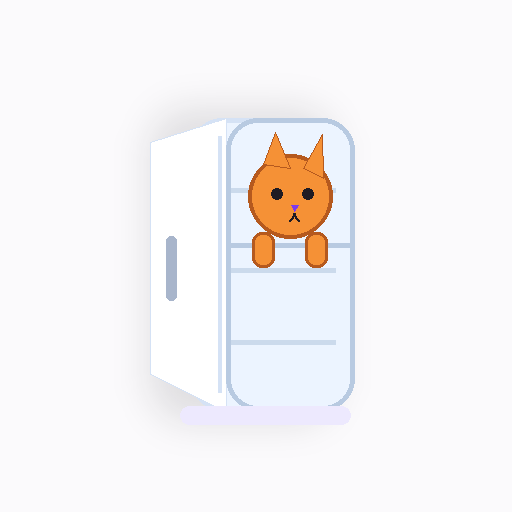
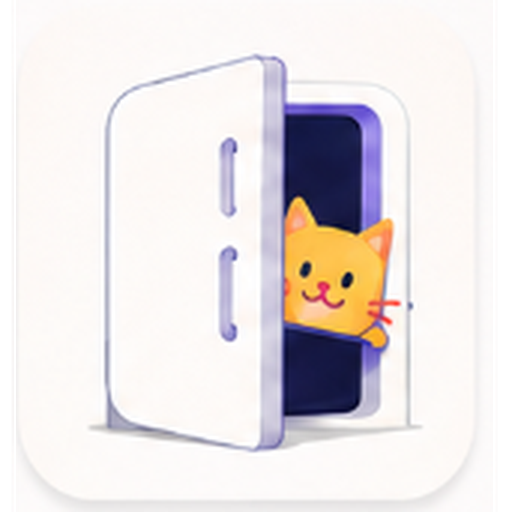
Add files via upload

diff --git a/index.html b/index.html
@@ -10,18 +10,19 @@
   <style>
     :root{--bg:#fbfafc;--card:#fff;--ink:#17131f;--muted:#70667a;--line:#ebe5ef;--purple:#7c3aed;--purple2:#a855f7;--dark:#17131f;--good:#059669;--bad:#dc2626;--warn:#b45309;--shadow:0 14px 38px rgba(31,24,40,.08)}
     *{box-sizing:border-box} body{margin:0;background:var(--bg);color:var(--ink);font-family:Inter,ui-sans-serif,system-ui,-apple-system,Segoe UI,Roboto,Arial,sans-serif} button,input,select,textarea{font:inherit} button{border:0;cursor:pointer;color:inherit} .hidden{display:none!important}
-    .wrap{width:min(520px,100%);margin:0 auto;min-height:100vh;padding:74px 14px 96px}.setup{min-height:100vh;display:grid;place-items:center;padding:22px}.card,.tile,.item,.panel{background:var(--card);border:1px solid var(--line);border-radius:24px;box-shadow:var(--shadow)}
+    .wrap{width:min(520px,100%);margin:0 auto;min-height:100vh;padding:74px 14px 96px}.setup{min-height:100vh;display:grid;place-items:center;padding:22px}.splash{position:fixed;inset:0;z-index:120;background:#fff;display:grid;place-items:center;text-align:center;padding:28px}.splash-inner img{width:180px;height:180px;border-radius:28px;box-shadow:var(--shadow)}.loader{width:74px;height:8px;background:#eee9f7;border-radius:999px;margin:54px auto 0;overflow:hidden}.loader i{display:block;width:38%;height:100%;border-radius:999px;background:linear-gradient(90deg,var(--purple),var(--purple2));animation:loadbar 1.15s ease-in-out infinite alternate}@keyframes loadbar{from{transform:translateX(0)}to{transform:translateX(120%)}}.card,.tile,.item,.panel{background:var(--card);border:1px solid var(--line);border-radius:24px;box-shadow:var(--shadow)}
     .top-nav{position:fixed;top:0;left:0;right:0;z-index:45;background:rgba(251,250,252,.86);backdrop-filter:blur(14px);border-bottom:1px solid var(--line)}.top-inner{width:min(520px,100%);margin:0 auto;padding:8px 12px;display:grid;grid-template-columns:1fr 1fr;gap:8px}.top-inner button,.bottom-nav button{border-radius:18px;padding:10px 8px;font-weight:900;background:#fff;border:1px solid var(--line)}.top-inner button.active,.bottom-nav button.active{background:#17131f;color:#fff;border-color:#17131f}
     .bottom-nav{position:fixed;bottom:0;left:0;right:0;z-index:45;background:rgba(251,250,252,.9);backdrop-filter:blur(14px);border-top:1px solid var(--line);padding-bottom:env(safe-area-inset-bottom)}.bottom-inner{width:min(520px,100%);margin:0 auto;padding:8px 10px;display:grid;grid-template-columns:repeat(4,1fr);gap:7px}.bottom-nav button{font-size:12px;padding:8px 4px}.ico{display:block;font-size:19px;margin-bottom:2px}
     h1,h2,h3,p{margin:0}.muted{color:var(--muted);font-size:14px}.top{display:flex;justify-content:space-between;align-items:flex-start;gap:12px;margin-bottom:14px}.brand{display:flex;align-items:center;gap:10px}.brand img{width:42px;height:42px;border-radius:13px}.icon-btn{width:42px;height:42px;border-radius:16px;background:#fff;border:1px solid var(--line);box-shadow:0 8px 22px rgba(31,24,40,.06)}
     .hero{background:radial-gradient(circle at 90% 12%,rgba(124,58,237,.6),transparent 25%),var(--dark);color:#fff;border-radius:30px;padding:20px;box-shadow:0 22px 55px rgba(31,24,40,.18);margin-bottom:16px}.hero small{text-transform:uppercase;letter-spacing:.16em;color:#d8c6ff;font-weight:900}.metrics{display:grid;grid-template-columns:repeat(3,1fr);gap:9px;margin-top:14px}.metric{background:rgba(255,255,255,.08);border:1px solid rgba(255,255,255,.12);border-radius:18px;padding:12px;text-align:left}.metric button{background:transparent;color:#fff;padding:0;text-align:left}.metric b{font-size:24px;display:block}.metric span{font-size:12px;color:#d9d1e3}.grid{display:grid;grid-template-columns:1fr 1fr;gap:12px}.tile{text-align:left;min-height:124px;padding:18px}.emoji{font-size:30px;margin-bottom:15px}.scan-card{margin-top:14px;width:100%;background:linear-gradient(135deg,var(--purple),var(--purple2));color:#fff;border-radius:26px;padding:18px;text-align:left;box-shadow:0 18px 42px rgba(124,58,237,.22)}
     .fab{position:fixed;right:max(18px,calc((100vw - 520px)/2 + 18px));bottom:calc(88px + env(safe-area-inset-bottom));z-index:50;width:60px;height:60px;border-radius:22px;background:linear-gradient(135deg,var(--purple),var(--purple2));color:#fff;font-size:32px;font-weight:900;box-shadow:0 22px 44px rgba(124,58,237,.32);display:grid;place-items:center}.label{font-size:12px;text-transform:uppercase;letter-spacing:.08em;font-weight:900;color:var(--muted);margin:12px 0 6px}.input,select,textarea{width:100%;border:1px solid var(--line);background:#fff;border-radius:18px;padding:13px 14px;outline:0}textarea{min-height:78px;resize:vertical}.row{display:grid;grid-template-columns:1fr 1fr;gap:10px}.primary,.secondary,.ghost,.danger{border-radius:18px;padding:13px 14px;font-weight:900}.primary{background:var(--purple);color:#fff}.secondary{background:#17131f;color:#fff}.ghost{background:#f4eff7}.danger{background:#fef2f2;color:var(--bad)}.pill{display:inline-flex;align-items:center;gap:6px;padding:8px 10px;background:#f4eff7;border-radius:999px;font-size:12px;font-weight:900;color:#5d5268}.chips{display:flex;gap:8px;overflow:auto;padding:2px 0 12px}.chip{border-radius:999px;padding:9px 12px;background:#fff;border:1px solid var(--line);font-weight:900;white-space:nowrap}.chip.active{background:#17131f;color:#fff}
-    .item{display:grid;grid-template-columns:auto 1fr auto;gap:10px;align-items:center;padding:12px;margin-bottom:10px}.item.done .item-name{text-decoration:line-through;text-decoration-thickness:2px;color:#8d8197}.thumb{width:44px;height:44px;border-radius:15px;background:#f4effb;display:grid;place-items:center;font-size:22px}.main{min-width:0}.item-name{font-weight:950;white-space:nowrap;overflow:hidden;text-overflow:ellipsis}.meta{font-size:13px;color:var(--muted);margin-top:3px;line-height:1.35}.actions{display:flex;gap:6px;align-items:center}.actions button,.check-btn{width:38px;height:38px;border-radius:14px;background:#f6f2f8;display:grid;place-items:center}.check-btn{border:2px solid #d8cfe1;background:#fff}.check-btn.on{background:#17131f;color:#fff;border-color:#17131f}.empty{border:1px dashed #d8d0df;border-radius:24px;padding:26px;text-align:center;color:var(--muted);background:rgba(255,255,255,.55)}.alert{border:1px solid #fde68a;background:#fffbeb;color:#92400e;border-radius:18px;padding:12px;margin:10px 0;font-size:13px;font-weight:800}.tools{display:grid;grid-template-columns:1fr 1fr;gap:8px;margin:10px 0}.tools.three{grid-template-columns:1fr 1fr 1fr}.section-title{font-size:13px;text-transform:uppercase;letter-spacing:.12em;color:#8d8197;font-weight:950;margin:18px 0 10px}.search{margin:8px 0 10px}
+    .item{display:grid;grid-template-columns:auto 1fr auto;gap:10px;align-items:center;padding:12px;margin-bottom:10px}.item.done .item-name{text-decoration:line-through;text-decoration-thickness:2px;color:#8d8197}.thumb{width:44px;height:44px;border-radius:15px;background:#f4effb;display:grid;place-items:center;font-size:22px}.main{min-width:0}.item-name{font-weight:950;white-space:nowrap;overflow:hidden;text-overflow:ellipsis}.meta{font-size:13px;color:var(--muted);margin-top:3px;line-height:1.35}.actions{display:flex;gap:6px;align-items:center}.actions button,.check-btn{width:38px;height:38px;border-radius:14px;background:#f6f2f8;display:grid;place-items:center}.logout-btn{background:#fef2f2!important;color:var(--bad)!important}.mini-actions{display:grid;grid-template-columns:1fr 1fr;gap:8px;margin-top:10px}.check-btn{border:2px solid #d8cfe1;background:#fff}.check-btn.on{background:#17131f;color:#fff;border-color:#17131f}.empty{border:1px dashed #d8d0df;border-radius:24px;padding:26px;text-align:center;color:var(--muted);background:rgba(255,255,255,.55)}.alert{border:1px solid #fde68a;background:#fffbeb;color:#92400e;border-radius:18px;padding:12px;margin:10px 0;font-size:13px;font-weight:800}.tools{display:grid;grid-template-columns:1fr 1fr;gap:8px;margin:10px 0}.tools.three{grid-template-columns:1fr 1fr 1fr}.section-title{font-size:13px;text-transform:uppercase;letter-spacing:.12em;color:#8d8197;font-weight:950;margin:18px 0 10px}.search{margin:8px 0 10px}
     .modal-overlay{position:fixed;inset:0;background:rgba(22,17,30,.44);backdrop-filter:blur(8px);display:none;align-items:flex-end;z-index:80}.modal-overlay.open{display:flex}.modal{width:100%;max-height:88vh;overflow:auto;background:#fff;border-radius:30px 30px 0 0;padding:20px 16px calc(22px + env(safe-area-inset-bottom));box-shadow:0 -22px 55px rgba(31,24,40,.22)}.modal h3{font-size:24px;margin:4px 0 14px}.toast{position:fixed;left:18px;right:18px;bottom:calc(88px + env(safe-area-inset-bottom));max-width:484px;margin:0 auto;background:#17131f;color:#fff;border-radius:17px;padding:13px 15px;font-weight:900;z-index:100;opacity:0;transform:translateY(20px);transition:.18s;pointer-events:none}.toast.show{opacity:1;transform:translateY(0)}.sync{display:inline-flex;align-items:center;border-radius:999px;padding:6px 10px;background:#f3edf7;color:var(--muted);font-size:12px;font-weight:900}.sync.online{background:#ecfdf5;color:var(--good)}.sync.error{background:#fef2f2;color:var(--bad)}.debug{font-size:12px;line-height:1.35;background:#fff;border:1px solid var(--line);border-radius:18px;padding:12px;color:#51495a;white-space:pre-wrap;margin-top:12px}.qty{display:grid;grid-template-columns:50px 1fr 50px;gap:6px}.qty button{background:#f6f2f8;border-radius:16px;font-weight:950}.qty input{text-align:center}.subtle{font-size:12px;color:#8d8197}.select-panel{background:#fff;border:1px solid var(--line);border-radius:20px;padding:12px;margin:10px 0}
     @media(min-width:760px){.modal-overlay{align-items:center;justify-content:center}.modal{max-width:480px;border-radius:30px;padding:22px}}
   </style>
 </head>
 <body>
+  <section id="splash" class="splash"><div class="splash-inner"><img src="brand-icon.png" alt="SchrodingerFridge"><h1>Schrodinger Fridge</h1><p class="muted">Sai cosa hai. Eviti sprechi.<br>Risparmi di più.</p><div class="loader"><i></i></div><p class="subtle" style="margin-top:42px">Caricamento in corso...</p></div></section>
   <nav class="top-nav hidden" id="top-nav"><div class="top-inner"><button data-view="shopping">📝 Lista spesa</button><button data-view="cart">🛒 Lista carrello</button></div></nav>
 
   <section id="setup" class="setup hidden">
@@ -30,6 +31,7 @@
       <p class="muted" style="margin-top:10px">Inserisci il codice famiglia. Da ora viene salvato e sincronizzato sempre in MAIUSCOLO.</p>
       <div class="label">Codice famiglia</div><input id="join-code" class="input" value="PROVA-1234" autocomplete="off">
       <div style="height:10px"></div><button id="btn-join" class="primary" style="width:100%">Entra nella famiglia</button>
+      <div style="height:10px"></div><button id="btn-create-family" class="secondary" style="width:100%">Crea nuova famiglia</button>
       <div style="height:10px"></div><button id="btn-offline" class="ghost" style="width:100%">Continua offline</button>
     </div>
   </section>
@@ -57,10 +59,12 @@
   </div></div>
 
   <div id="modal-settings" class="modal-overlay" role="dialog" aria-modal="true"><div class="modal">
-    <h3>Impostazioni Supabase</h3>
+    <h3>Impostazioni</h3>
+    <div class="label">Famiglia attiva</div><div class="select-panel"><b id="settings-family">—</b><div class="mini-actions"><button class="ghost" type="button" onclick="fullSync()">Ricarica Supabase</button><button class="secondary" type="button" onclick="testRemoteRead()">Test sync</button></div><div class="mini-actions"><button class="ghost" type="button" onclick="changeFamily()">Cambia famiglia</button><button class="logout-btn" type="button" onclick="logoutFamily()">🚪 Esci</button></div></div>
     <div class="label">Project URL</div><input id="supabase-url" class="input">
     <div class="label">Anon / publishable key</div><input id="supabase-key" class="input" placeholder="Incolla qui la anon key">
-    <p class="muted" style="margin:10px 0">La famiglia viene salvata in maiuscolo. La lettura usa filtro case-insensitive per recuperare anche dati vecchi.</p>
+    <p class="muted" style="margin:10px 0">La famiglia viene salvata in MAIUSCOLO. La lettura usa filtro case-insensitive per recuperare anche dati vecchi.</p>
+    <div id="debug" class="debug"></div>
     <div class="row"><button id="btn-close-settings" class="ghost">Chiudi</button><button id="btn-save-settings" class="primary">Salva</button></div>
   </div></div>
 
@@ -75,12 +79,12 @@
   <script src="https://cdn.jsdelivr.net/npm/@supabase/supabase-js@2"></script>
   <script>
     'use strict';
-    const APP_VERSION='step3-logic-sync-uppercase-2026-06-02-01';
+    const APP_VERSION='step4-ui-lists-search-edit-2026-06-02-01';
     const DEFAULT_SUPABASE_URL='https://evaftivdtyoaezxzzyml.supabase.co';
-    const CFG_KEY='sf_step3_cfg';
+    const CFG_KEY='sf_step4_cfg';
     let cfg={familyCode:'',supabaseUrl:DEFAULT_SUPABASE_URL,supabaseKey:'',offline:false};
     let state=emptyState(), view='home', sb=null, channel=null, lastError='', searchText='', cartSearch='', houseSearch='';
-    let selectedCart=new Set(), selectedHouse=new Set(), pendingCategoryAction=null;
+    let selectedCart=new Set(), selectedHouse=new Set(), pendingCategoryAction=null, editingKind=null, editingId=null;
 
     function emptyState(){return{products:[],shoppingList:[],cart:[]};}
     function normalizeState(){if(!state||typeof state!=='object')state=emptyState(); if(!Array.isArray(state.products))state.products=[]; if(!Array.isArray(state.shoppingList))state.shoppingList=[]; if(!Array.isArray(state.cart))state.cart=[]; ['products','shoppingList','cart'].forEach(k=>state[k]=state[k].map(normalizeItem)); return state;}
@@ -88,7 +92,7 @@
     function normalizeFamilyCode(v){return String(v||'').trim().toUpperCase();}
     function normalizeCategory(v){v=String(v||'dispensa').toLowerCase(); return ['frigo','dispensa','altro'].includes(v)?v:'dispensa';}
     function safeJson(raw,fallback){try{return JSON.parse(raw)||fallback}catch{return fallback}}
-    function stateKey(){return 'sf_step3_state_'+(cfg.familyCode||'OFFLINE');}
+    function stateKey(){return 'sf_step4_state_'+(cfg.familyCode||'OFFLINE');}
     function newId(prefix='it'){return prefix+'-'+Date.now()+'-'+Math.random().toString(36).slice(2,8)}
     function esc(v){return String(v??'').replace(/[&<>'"]/g,c=>({'&':'&amp;','<':'&lt;','>':'&gt;',"'":'&#39;','"':'&quot;'}[c]));}
     function toast(msg){const el=document.getElementById('toast');el.textContent=msg;el.classList.add('show');clearTimeout(toast.t);toast.t=setTimeout(()=>el.classList.remove('show'),2500)}
@@ -101,6 +105,7 @@
 
     function bindEvents(){
       document.getElementById('btn-join').addEventListener('click',()=>enterFamily(document.getElementById('join-code').value));
+      document.getElementById('btn-create-family').addEventListener('click',createFamily);
       document.getElementById('btn-offline').addEventListener('click',continueOffline);
       document.getElementById('fab').addEventListener('click',openAddModal);
       document.getElementById('btn-cancel-add').addEventListener('click',closeAllModals);
@@ -114,14 +119,16 @@
       document.querySelectorAll('[data-view]').forEach(btn=>btn.addEventListener('click',()=>setView(btn.dataset.view)));
       document.querySelectorAll('.modal-overlay').forEach(ov=>ov.addEventListener('click',e=>{if(e.target===ov)closeAllModals();}));
     }
-    function init(){bindEvents();loadConfig();if(!cfg.familyCode&&!cfg.offline)showSetup();else{loadLocal();showApp();initSupabase();fullSync();}if('serviceWorker'in navigator)navigator.serviceWorker.register('sw.js').catch(()=>{});}
+    function init(){bindEvents();loadConfig();setTimeout(()=>document.getElementById('splash')?.classList.add('hidden'),850);if(!cfg.familyCode&&!cfg.offline)showSetup();else{loadLocal();showApp();initSupabase();fullSync();}if('serviceWorker'in navigator)navigator.serviceWorker.register('sw.js').catch(()=>{});}
     document.addEventListener('DOMContentLoaded',init);
 
     function showSetup(){closeAllModals();document.getElementById('setup').classList.remove('hidden');document.getElementById('app').classList.add('hidden');document.getElementById('top-nav').classList.add('hidden');document.getElementById('bottom-nav').classList.add('hidden');}
     function showApp(){document.getElementById('setup').classList.add('hidden');document.getElementById('app').classList.remove('hidden');document.getElementById('top-nav').classList.remove('hidden');document.getElementById('bottom-nav').classList.remove('hidden');render();}
     function enterFamily(raw){const code=normalizeFamilyCode(raw);if(code.length<4)return toast('Codice famiglia troppo corto');resetRealtime();cfg.familyCode=code;cfg.offline=false;state=emptyState();saveConfig();loadLocal();showApp();initSupabase();fullSync();toast('Famiglia: '+code);}
     function continueOffline(){resetRealtime();cfg.offline=true;cfg.familyCode='';state=emptyState();saveLocal();showApp();setSyncStatus('offline');}
-    function changeFamily(){resetRealtime();cfg.familyCode='';cfg.offline=false;state=emptyState();saveConfig();showSetup();}
+    function createFamily(){const code='FAM-'+Math.random().toString(36).slice(2,6).toUpperCase()+'-'+Math.random().toString(36).slice(2,6).toUpperCase();document.getElementById('join-code').value=code;enterFamily(code);toast('Nuova famiglia creata: '+code);}
+    function changeFamily(){closeAllModals();resetRealtime();cfg.familyCode='';cfg.offline=false;state=emptyState();saveConfig();showSetup();}
+    function logoutFamily(){changeFamily();toast('Sei uscito dalla famiglia');}
     function setView(next){view=next;searchText='';cartSearch='';houseSearch='';selectedCart.clear();selectedHouse.clear();render();}
 
     function render(){normalizeState();document.querySelectorAll('[data-view]').forEach(b=>b.classList.toggle('active',b.dataset.view===view));const page=document.getElementById('page');
@@ -130,16 +137,18 @@
 
     function activeProducts(){return state.products.filter(x=>!x.checked);}
     function expiringProducts(){const today=new Date();today.setHours(0,0,0,0);const limit=new Date(today);limit.setDate(limit.getDate()+7);return activeProducts().filter(x=>x.expiry&&new Date(x.expiry)<=limit);}
-    function renderHome(){const house=activeProducts().length,list=state.shoppingList.length,exp=expiringProducts().length;return `<div class="top"><div><h2>Ciao, Freddie! 👋</h2><div class="muted">Famiglia: <b>${esc(cfg.familyCode||'offline')}</b> · <span class="sync">...</span></div></div><button class="icon-btn" onclick="openSettings()">⚙️</button></div><section class="hero"><small>Panoramica oggi</small><h3>Gestione famiglia</h3><div class="metrics"><div class="metric"><button onclick="setView('house')"><b>${house}</b><span>Prodotti in casa</span></button></div><div class="metric"><button onclick="setView('shopping')"><b>${list}</b><span>Prodotti in lista</span></button></div><div class="metric"><button onclick="setView('house')"><b>${exp}</b><span>In scadenza</span></button></div></div></section><div class="grid"><button class="tile" onclick="setView('frigo')"><div class="emoji">❄️</div><h3>Frigo</h3><p class="muted">Freschi e scadenze</p></button><button class="tile" onclick="setView('dispensa')"><div class="emoji">🥫</div><h3>Dispensa</h3><p class="muted">Scorte di casa</p></button><button class="tile" onclick="setView('shopping')"><div class="emoji">📝</div><h3>Lista spesa</h3><p class="muted">Cose da comprare</p></button><button class="tile" onclick="setView('cart')"><div class="emoji">🛒</div><h3>Carrello</h3><p class="muted">Acquisti e scontrino</p></button></div><button class="scan-card" type="button"><b>Scansione scontrino</b><br><span>Fotocamera + AI Vision</span></button><div class="row" style="margin-top:12px"><button class="ghost" onclick="fullSync()">Ricarica Supabase</button><button class="secondary" onclick="testRemoteRead()">Test sync</button></div><div class="row" style="margin-top:10px"><button class="ghost" onclick="openSettings()">Impostazioni</button><button class="danger" onclick="changeFamily()">Cambia famiglia</button></div><div id="debug" class="debug"></div>`;}
-    function renderStorage(cat){let items=activeProducts().filter(x=>x.category===cat);const title=cat==='frigo'?'Frigorifero':cat==='dispensa'?'Dispensa':'Altro';return `<div class="top"><div class="brand"><img src="brand-icon.png" alt=""><h1>${title}</h1></div><span class="sync">...</span></div><input class="input search" placeholder="Cerca in ${title.toLowerCase()}" value="${esc(searchText)}" oninput="searchText=this.value;render()">${renderDuplicateAlert(items)}${renderSections(items,'product')}`;}
+    function renderHome(){const house=activeProducts().length,list=state.shoppingList.length,exp=expiringProducts().length;return `<div class="top"><div><h2>Ciao, Freddie! 👋</h2><div class="muted">Famiglia: <b>${esc(cfg.familyCode||'offline')}</b> · <span class="sync">...</span></div></div><button class="icon-btn" onclick="openSettings()">⚙️</button></div><section class="hero"><small>Panoramica oggi</small><h3>Gestione famiglia</h3><div class="metrics"><div class="metric"><button onclick="setView('house')"><b>${house}</b><span>Prodotti in casa</span></button></div><div class="metric"><button onclick="setView('shopping')"><b>${list}</b><span>Prodotti in lista</span></button></div><div class="metric"><button onclick="setView('house')"><b>${exp}</b><span>In scadenza</span></button></div></div></section><div class="grid"><button class="tile" onclick="setView('frigo')"><div class="emoji">❄️</div><h3>Frigo</h3><p class="muted">Freschi e scadenze</p></button><button class="tile" onclick="setView('dispensa')"><div class="emoji">🥫</div><h3>Dispensa</h3><p class="muted">Scorte di casa</p></button><button class="tile" onclick="setView('shopping')"><div class="emoji">📝</div><h3>Lista spesa</h3><p class="muted">Cose da comprare</p></button><button class="tile" onclick="setView('cart')"><div class="emoji">🛒</div><h3>Carrello</h3><p class="muted">Acquisti e scontrino</p></button></div><button class="scan-card" type="button"><b>Scansione scontrino</b><br><span>Fotocamera + AI Vision</span></button>`;}
+    function renderStorage(cat){let items=state.products.filter(x=>x.category===cat);const title=cat==='frigo'?'Frigorifero':cat==='dispensa'?'Dispensa':'Altro';return `<div class="top"><div class="brand"><img src="brand-icon.png" alt=""><h1>${title}</h1></div><span class="sync">...</span></div><input id="search-storage" class="input search" placeholder="Cerca in ${title.toLowerCase()}" value="${esc(searchText)}" oninput="searchText=this.value;rerenderKeepFocus('search-storage')">${renderDuplicateAlert(items)}${renderSections(items,'product')}`;}
     function renderSections(items,kind){const q=searchText.trim().toLowerCase();if(q)items=items.filter(x=>itemText(x).includes(q));if(!items.length)return `<div class="empty">Nessuna voce. Premi + per aggiungere.</div>`;const exp=items.filter(x=>x.expiry&&new Date(x.expiry)<=new Date(Date.now()+7*86400000));const good=items.filter(x=>!exp.includes(x));return `${exp.length?`<div class="section-title">In scadenza</div>${exp.map(x=>renderProductItem(x)).join('')}`:''}<div class="section-title">Buono stato</div>${good.map(x=>renderProductItem(x)).join('')}`;}
-    function renderProductItem(it){return `<article class="item ${it.checked?'done':''}" onclick="toggleHouseDone('${esc(it.id)}')"><div class="thumb">${emoji(it)}</div><div class="main"><div class="item-name">${esc(it.name)}</div><div class="meta">${fmtQty(it)} · ${catLabel(it.category)}${it.expiry?' · scad. '+esc(it.expiry):''}${it.notes?' · '+esc(it.notes):''}</div></div><div class="actions" onclick="event.stopPropagation()"><button title="Rimetti in lista spesa" onclick="productToShopping('${esc(it.id)}')">🛒</button><button title="Cancella" onclick="deleteItem('product','${esc(it.id)}')">×</button></div></article>`;}
-    function renderShopping(){let items=[...state.shoppingList];const q=searchText.trim().toLowerCase();if(q)items=items.filter(x=>itemText(x).includes(q));return `<div class="top"><div><h2>Lista spesa</h2><div class="muted">${state.shoppingList.length} voci</div></div><span class="sync">...</span></div><input class="input search" placeholder="Cerca nella lista spesa" value="${esc(searchText)}" oninput="searchText=this.value;render()">${renderDuplicateAlert(state.shoppingList)}${items.length?items.map(renderShoppingItem).join(''):`<div class="empty">Lista spesa vuota. Premi + per aggiungere.</div>`}`;}
-    function renderShoppingItem(it){return `<article class="item"><div class="thumb">${emoji(it)}</div><div class="main"><div class="item-name">${esc(it.name)}</div><div class="meta">${fmtQty(it)}</div></div><div class="actions"><button title="Sposta nel carrello" onclick="shoppingToCart('${esc(it.id)}')">🛒</button><button title="Cancella" onclick="deleteItem('shopping','${esc(it.id)}')">×</button></div></article>`;}
-    function renderCart(){let items=[...state.cart];const q=cartSearch.trim().toLowerCase();if(q)items=items.filter(x=>itemText(x).includes(q));return `<div class="top"><div><h2>Lista carrello</h2><div class="muted">${state.cart.length} voci · ${selectedCart.size} selezionate</div></div><span class="sync">...</span></div><input class="input search" placeholder="Cerca nel carrello" value="${esc(cartSearch)}" oninput="cartSearch=this.value;render()">${renderDuplicateAlert(state.cart)}<div class="tools"><button class="ghost" onclick="selectAllCart()">Seleziona tutto</button><button class="ghost" onclick="clearCartSelection()">Deseleziona</button></div><div class="tools"><button class="primary" onclick="openMoveSelectedCart()">Sposta selezionati</button><button class="secondary" onclick="moveAllCart()">Sposta tutti</button></div><div class="tools"><button class="danger" onclick="deleteSelectedCart()">Cancella selezionati</button><button class="danger" onclick="deleteAllCart()">Cancella tutti</button></div>${items.length?items.map(renderCartItem).join(''):`<div class="empty">Carrello vuoto. Premi + o sposta una voce dalla lista spesa.</div>`}`;}
-    function renderCartItem(it){const on=selectedCart.has(it.id);return `<article class="item"><button class="check-btn ${on?'on':''}" onclick="toggleCartSelect('${esc(it.id)}')">${on?'✓':''}</button><div class="main"><div class="item-name">${esc(it.name)}</div><div class="meta">${fmtQty(it)} · ${catLabel(it.category)}${it.expiry?' · scad. '+esc(it.expiry):''}${it.notes?' · '+esc(it.notes):''}</div></div><div class="actions"><button title="Sposta in ${catLabel(it.category)}" onclick="moveCartItemToProduct('${esc(it.id)}')">➡️</button><button title="Cancella" onclick="deleteItem('cart','${esc(it.id)}')">×</button></div></article>`;}
-    function renderHouse(){let items=[...state.products];const q=houseSearch.trim().toLowerCase();if(q)items=items.filter(x=>itemText(x).includes(q));return `<div class="top"><div><h2>Prodotti in casa</h2><div class="muted">${activeProducts().length} attivi · ${selectedHouse.size} selezionati</div></div><button class="icon-btn" onclick="setView('home')">↩</button></div><input class="input search" placeholder="Cerca in tutti i prodotti" value="${esc(houseSearch)}" oninput="houseSearch=this.value;render()"><div class="tools"><button class="ghost" onclick="selectAllHouse()">Seleziona tutto</button><button class="ghost" onclick="clearHouseSelection()">Deseleziona</button></div><div class="tools"><button class="secondary" onclick="houseSelectedToShopping()">Rimetti selezionati in lista</button><button class="danger" onclick="deleteSelectedHouse()">Cancella selezionati</button></div><div class="tools"><button class="danger" onclick="deleteAllHouse()">Cancella tutti</button><button class="ghost" onclick="fullSync()">Sync</button></div>${items.length?items.map(renderHouseItem).join(''):`<div class="empty">Nessun prodotto in casa.</div>`}`;}
-    function renderHouseItem(it){const on=selectedHouse.has(it.id);return `<article class="item ${it.checked?'done':''}" onclick="toggleHouseDone('${esc(it.id)}')"><button class="check-btn ${on?'on':''}" onclick="event.stopPropagation();toggleHouseSelect('${esc(it.id)}')">${on?'✓':''}</button><div class="main"><div class="item-name">${esc(it.name)}</div><div class="meta">${fmtQty(it)} · ${catLabel(it.category)}${it.expiry?' · scad. '+esc(it.expiry):''}${it.notes?' · '+esc(it.notes):''}</div></div><div class="actions" onclick="event.stopPropagation()"><button title="Rimetti in lista spesa" onclick="productToShopping('${esc(it.id)}')">🛒</button><button title="Cancella" onclick="deleteItem('product','${esc(it.id)}')">×</button></div></article>`;}
+    function renderProductItem(it){return `<article class="item ${it.checked?'done':''}" onclick="toggleHouseDone('${esc(it.id)}')"><div class="thumb">${emoji(it)}</div><div class="main"><div class="item-name">${esc(it.name)}</div><div class="meta">${fmtQty(it)} · ${catLabel(it.category)}${it.expiry?' · scad. '+esc(it.expiry):''}${it.notes?' · '+esc(it.notes):''}</div></div><div class="actions" onclick="event.stopPropagation()"><button title="Modifica" onclick="openEditModal('product','${esc(it.id)}')">✏️</button><button title="Rimetti in lista spesa" onclick="productToShopping('${esc(it.id)}')">🛒</button><button title="Cancella" onclick="deleteItem('product','${esc(it.id)}')">×</button></div></article>`;}
+    function renderShopping(){let items=[...state.shoppingList];const q=searchText.trim().toLowerCase();if(q)items=items.filter(x=>itemText(x).includes(q));return `<div class="top"><div><h2>Lista spesa</h2><div class="muted">${state.shoppingList.length} voci</div></div><span class="sync">...</span></div><input id="search-shopping" class="input search" placeholder="Cerca nella lista spesa" value="${esc(searchText)}" oninput="searchText=this.value;rerenderKeepFocus('search-shopping')">${renderDuplicateAlert(state.shoppingList)}${items.length?items.map(renderShoppingItem).join(''):`<div class="empty">Lista spesa vuota. Premi + per aggiungere.</div>`}`;}
+    function renderShoppingItem(it){return `<article class="item ${it.checked?'done':''}" onclick="toggleShoppingDone('${esc(it.id)}')"><div class="thumb">${emoji(it)}</div><div class="main"><div class="item-name">${esc(it.name)}</div><div class="meta">${fmtQty(it)}${it.notes?' · '+esc(it.notes):''}</div></div><div class="actions" onclick="event.stopPropagation()"><button title="Modifica" onclick="openEditModal('shopping','${esc(it.id)}')">✏️</button><button title="Sposta nel carrello" onclick="shoppingToCart('${esc(it.id)}')">🛒</button><button title="Cancella" onclick="deleteItem('shopping','${esc(it.id)}')">×</button></div></article>`;}
+    function renderCart(){let items=[...state.cart];const q=cartSearch.trim().toLowerCase();if(q)items=items.filter(x=>itemText(x).includes(q));return `<div class="top"><div><h2>Lista carrello</h2><div class="muted">${state.cart.length} voci · ${selectedCart.size} selezionate</div></div><span class="sync">...</span></div><input id="search-cart" class="input search" placeholder="Cerca nel carrello" value="${esc(cartSearch)}" oninput="cartSearch=this.value;rerenderKeepFocus('search-cart')">${renderDuplicateAlert(state.cart)}<div class="tools"><button class="ghost" onclick="selectAllCart()">Seleziona tutto</button><button class="ghost" onclick="clearCartSelection()">Deseleziona</button></div><div class="tools"><button class="primary" onclick="openMoveSelectedCart()">Sposta selezionati</button><button class="secondary" onclick="moveAllCart()">Sposta tutti</button></div><div class="tools"><button class="danger" onclick="deleteSelectedCart()">Cancella selezionati</button><button class="danger" onclick="deleteAllCart()">Cancella tutti</button></div>${items.length?items.map(renderCartItem).join(''):`<div class="empty">Carrello vuoto. Premi + o sposta una voce dalla lista spesa.</div>`}`;}
+    function renderCartItem(it){const on=selectedCart.has(it.id);return `<article class="item ${it.checked?'done':''}" onclick="toggleCartDone('${esc(it.id)}')"><button class="check-btn ${on?'on':''}" onclick="event.stopPropagation();toggleCartSelect('${esc(it.id)}')">${on?'✓':''}</button><div class="main"><div class="item-name">${esc(it.name)}</div><div class="meta">${fmtQty(it)} · ${catLabel(it.category)}${it.expiry?' · scad. '+esc(it.expiry):''}${it.notes?' · '+esc(it.notes):''}</div></div><div class="actions" onclick="event.stopPropagation()"><button title="Modifica" onclick="openEditModal('cart','${esc(it.id)}')">✏️</button><button title="Sposta in ${catLabel(it.category)}" onclick="moveCartItemToProduct('${esc(it.id)}')">➡️</button><button title="Cancella" onclick="deleteItem('cart','${esc(it.id)}')">×</button></div></article>`;}
+    function renderHouse(){let items=[...state.products];const q=houseSearch.trim().toLowerCase();if(q)items=items.filter(x=>itemText(x).includes(q));return `<div class="top"><div><h2>Prodotti in casa</h2><div class="muted">${activeProducts().length} attivi · ${selectedHouse.size} selezionati</div></div><button class="icon-btn" onclick="setView('home')">↩</button></div><input id="search-house" class="input search" placeholder="Cerca in tutti i prodotti" value="${esc(houseSearch)}" oninput="houseSearch=this.value;rerenderKeepFocus('search-house')"><div class="tools"><button class="ghost" onclick="selectAllHouse()">Seleziona tutto</button><button class="ghost" onclick="clearHouseSelection()">Deseleziona</button></div><div class="tools"><button class="secondary" onclick="houseSelectedToShopping()">Rimetti selezionati in lista</button><button class="danger" onclick="deleteSelectedHouse()">Cancella selezionati</button></div><div class="tools"><button class="danger" onclick="deleteAllHouse()">Cancella tutti</button><button class="ghost" onclick="fullSync()">Sync</button></div>${items.length?items.map(renderHouseItem).join(''):`<div class="empty">Nessun prodotto in casa.</div>`}`;}
+    function renderHouseItem(it){const on=selectedHouse.has(it.id);return `<article class="item ${it.checked?'done':''}" onclick="toggleHouseDone('${esc(it.id)}')"><button class="check-btn ${on?'on':''}" onclick="event.stopPropagation();toggleHouseSelect('${esc(it.id)}')">${on?'✓':''}</button><div class="main"><div class="item-name">${esc(it.name)}</div><div class="meta">${fmtQty(it)} · ${catLabel(it.category)}${it.expiry?' · scad. '+esc(it.expiry):''}${it.notes?' · '+esc(it.notes):''}</div></div><div class="actions" onclick="event.stopPropagation()"><button title="Modifica" onclick="openEditModal('product','${esc(it.id)}')">✏️</button><button title="Rimetti in lista spesa" onclick="productToShopping('${esc(it.id)}')">🛒</button><button title="Cancella" onclick="deleteItem('product','${esc(it.id)}')">×</button></div></article>`;}
+
+    function rerenderKeepFocus(id){const el=document.getElementById(id);const start=el&&typeof el.selectionStart==='number'?el.selectionStart:null;const end=el&&typeof el.selectionEnd==='number'?el.selectionEnd:null;render();requestAnimationFrame(()=>{const n=document.getElementById(id);if(n){n.focus();if(start!==null)n.setSelectionRange(start,end);}});}
 
     function renderDuplicateAlert(arr){const dup=duplicates(arr);return dup.length?`<div class="alert">Possibili duplicati: ${dup.map(esc).join(', ')}</div>`:'';}
     function duplicates(arr){const map=new Map();arr.forEach(x=>{const k=String(x.name||'').trim().toLowerCase();if(k)map.set(k,(map.get(k)||0)+1)});return[...map].filter(([,v])=>v>1).map(([k])=>k);}
@@ -148,10 +157,11 @@
     function itemText(x){return `${x.name} ${x.category} ${x.notes} ${x.qty} ${x.unit} ${x.expiry}`.toLowerCase();}
     function emoji(it){const n=String(it.name||'').toLowerCase();if(/latte|yogurt|formaggio/.test(n))return'🥛';if(/pane|pasta|riso/.test(n))return'🍝';if(/mela|banana|frutta|pera/.test(n))return'🍎';if(/pollo|carne|pesce/.test(n))return'🥩';return it.category==='frigo'?'❄️':it.category==='altro'?'📦':'🥫';}
 
-    function openAddModal(){closeAllModals();document.getElementById('item-name').value='';document.getElementById('item-qty').value='1';document.getElementById('item-unit').value='pz';document.getElementById('item-notes').value='';document.getElementById('item-expiry').value='';document.getElementById('item-list').value=view==='shopping'?'shopping':view==='cart'?'cart':'product';document.getElementById('item-category').value=['frigo','dispensa','altro'].includes(view)?view:'dispensa';document.getElementById('modal-add').classList.add('open');setTimeout(()=>document.getElementById('item-name').focus(),80);}
-    function closeAllModals(){document.querySelectorAll('.modal-overlay.open').forEach(m=>m.classList.remove('open'));pendingCategoryAction=null;}
+    function openAddModal(){editingKind=null;editingId=null;closeAllModals();document.getElementById('modal-title').textContent='Aggiungi voce';document.getElementById('item-name').value='';document.getElementById('item-qty').value='1';document.getElementById('item-unit').value='pz';document.getElementById('item-notes').value='';document.getElementById('item-expiry').value='';document.getElementById('item-list').disabled=false;document.getElementById('item-list').value=view==='shopping'?'shopping':view==='cart'?'cart':'product';document.getElementById('item-category').value=['frigo','dispensa','altro'].includes(view)?view:'dispensa';document.getElementById('modal-add').classList.add('open');setTimeout(()=>document.getElementById('item-name').focus(),80);}
+    function openEditModal(kind,id){normalizeState();const key=kind==='shopping'?'shoppingList':kind==='cart'?'cart':'products';const it=state[key].find(x=>x.id===id);if(!it)return;editingKind=kind;editingId=id;closeAllModals();document.getElementById('modal-title').textContent='Modifica voce';document.getElementById('item-name').value=it.name||'';document.getElementById('item-qty').value=it.qty||1;document.getElementById('item-unit').value=it.unit||'pz';document.getElementById('item-notes').value=it.notes||'';document.getElementById('item-expiry').value=it.expiry||'';document.getElementById('item-list').value=it.list_type;document.getElementById('item-list').disabled=true;document.getElementById('item-category').value=normalizeCategory(it.category);document.getElementById('modal-add').classList.add('open');setTimeout(()=>document.getElementById('item-name').focus(),80);}
+    function closeAllModals(){document.querySelectorAll('.modal-overlay.open').forEach(m=>m.classList.remove('open'));pendingCategoryAction=null;document.getElementById('item-list').disabled=false;}
     function adjustQty(d){const el=document.getElementById('item-qty');el.value=Math.max(0.01,Number(el.value||1)+d);}
-    function saveItem(){const name=document.getElementById('item-name').value.trim();if(!name)return toast('Inserisci il nome');const list=document.getElementById('item-list').value;const item=normalizeItem({id:newId(list),family_code:cfg.familyCode,list_type:list,name,category:document.getElementById('item-category').value,qty:Number(document.getElementById('item-qty').value||1),unit:document.getElementById('item-unit').value,notes:document.getElementById('item-notes').value,expiry:document.getElementById('item-expiry').value||null,checked:false,confirmed:false,origin_category:document.getElementById('item-category').value,added_at:Date.now(),updated_at:Date.now()});pushLocal(item);saveLocal();closeAllModals();render();upsertOne(item);toast('Voce aggiunta');}
+    function saveItem(){const name=document.getElementById('item-name').value.trim();if(!name)return toast('Inserisci il nome');const list=document.getElementById('item-list').value;if(editingId){const key=editingKind==='shopping'?'shoppingList':editingKind==='cart'?'cart':'products';const it=state[key].find(x=>x.id===editingId);if(!it)return toast('Voce non trovata');Object.assign(it,{name,category:document.getElementById('item-category').value,qty:Number(document.getElementById('item-qty').value||1),unit:document.getElementById('item-unit').value,notes:document.getElementById('item-notes').value,expiry:document.getElementById('item-expiry').value||null,origin_category:document.getElementById('item-category').value,updated_at:Date.now()});saveLocal();closeAllModals();render();upsertOne(it);editingKind=null;editingId=null;toast('Voce modificata');return;}const item=normalizeItem({id:newId(list),family_code:cfg.familyCode,list_type:list,name,category:document.getElementById('item-category').value,qty:Number(document.getElementById('item-qty').value||1),unit:document.getElementById('item-unit').value,notes:document.getElementById('item-notes').value,expiry:document.getElementById('item-expiry').value||null,checked:false,confirmed:false,origin_category:document.getElementById('item-category').value,added_at:Date.now(),updated_at:Date.now()});pushLocal(item);saveLocal();closeAllModals();render();upsertOne(item);toast('Voce aggiunta');}
     function pushLocal(item){normalizeState();if(item.list_type==='shopping')state.shoppingList.unshift(item);else if(item.list_type==='cart')state.cart.unshift(item);else state.products.unshift(item);}
     function findRemove(kind,id){const key=kind==='shopping'?'shoppingList':kind==='cart'?'cart':'products';const i=state[key].findIndex(x=>x.id===id);if(i<0)return null;return state[key].splice(i,1)[0];}
     async function shoppingToCart(id){const it=findRemove('shopping',id);if(!it)return;it.list_type='cart';it.updated_at=Date.now();state.cart.unshift(it);saveLocal();render();await upsertOne(it);toast('Spostato nel carrello');}
@@ -167,6 +177,9 @@
     function openCategoryModal(title,fn){pendingCategoryAction=fn;document.getElementById('category-title').textContent=title;document.getElementById('modal-category').classList.add('open');}
     function confirmCategoryAction(){const fn=pendingCategoryAction;closeAllModals();if(fn)fn();}
 
+    async function toggleShoppingDone(id){const it=state.shoppingList.find(x=>x.id===id);if(!it)return;it.checked=!it.checked;it.checked_at=it.checked?Date.now():null;it.updated_at=Date.now();saveLocal();render();await upsertOne(it);}
+    async function toggleCartDone(id){const it=state.cart.find(x=>x.id===id);if(!it)return;it.checked=!it.checked;it.checked_at=it.checked?Date.now():null;it.updated_at=Date.now();saveLocal();render();await upsertOne(it);}
+
     async function productToShopping(id){const it=findRemove('product',id);if(!it)return;it.list_type='shopping';it.checked=false;it.checked_at=null;it.updated_at=Date.now();state.shoppingList.unshift(it);selectedHouse.delete(id);saveLocal();render();await upsertOne(it);toast('Rimesso in lista spesa');}
     async function toggleHouseDone(id){const it=state.products.find(x=>x.id===id);if(!it)return;it.checked=!it.checked;it.checked_at=it.checked?Date.now():null;it.updated_at=Date.now();saveLocal();render();await upsertOne(it);}
     function toggleHouseSelect(id){selectedHouse.has(id)?selectedHouse.delete(id):selectedHouse.add(id);render();}
@@ -178,7 +191,7 @@
     async function deleteItem(kind,id){await deleteMany(kind,[id]);}
     async function deleteMany(kind,ids){const key=kind==='shopping'?'shoppingList':kind==='cart'?'cart':'products';const set=new Set(ids);state[key]=state[key].filter(x=>!set.has(x.id));ids.forEach(id=>{selectedCart.delete(id);selectedHouse.delete(id)});saveLocal();render();for(const id of ids)await deleteRemote(id);toast(ids.length===1?'Voce cancellata':`${ids.length} voci cancellate`);}
 
-    function openSettings(){document.getElementById('supabase-url').value=cfg.supabaseUrl||DEFAULT_SUPABASE_URL;document.getElementById('supabase-key').value=cfg.supabaseKey||'';document.getElementById('modal-settings').classList.add('open');}
+    function openSettings(){document.getElementById('supabase-url').value=cfg.supabaseUrl||DEFAULT_SUPABASE_URL;document.getElementById('supabase-key').value=cfg.supabaseKey||'';const f=document.getElementById('settings-family');if(f)f.textContent=cfg.familyCode||'offline';document.getElementById('modal-settings').classList.add('open');renderDebug();}
     function saveSettings(){cfg.supabaseUrl=document.getElementById('supabase-url').value.trim()||DEFAULT_SUPABASE_URL;cfg.supabaseKey=document.getElementById('supabase-key').value.trim();saveConfig();closeAllModals();initSupabase();fullSync();}
     function initSupabase(){resetRealtime();if(cfg.offline||!cfg.supabaseUrl||!cfg.supabaseKey||!window.supabase){setSyncStatus(cfg.offline?'offline':'config');return;}try{sb=window.supabase.createClient(cfg.supabaseUrl,cfg.supabaseKey);subscribeRealtime();setSyncStatus('online');}catch(e){setLastError(e);setSyncStatus('error');}}
     function resetRealtime(){if(channel&&sb)try{sb.removeChannel(channel)}catch{} channel=null;sb=null;}